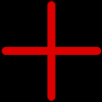
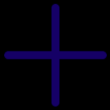
> Your pieces are now blue > Ex's shouldn't spawn in corners

Changed region(s): [[0.0, 0.0, 1.0, 1.0]]

diff --git a/public/shuffle-client.js b/public/shuffle-client.js
@@ -58,7 +58,7 @@ function setup() {                  //put all client responses in setup()
         addressString += digit;
     }
     self.address = int(addressString);
-    self.team = [100,0,0];
+    self.team = [0,0,100];
     
     //client = io.connect('74.71.101.15:8080');                     //Local ip on LAN over home router
     //client = io.connect('127.0.0.1:8080');                        //Localhost ip
@@ -138,7 +138,7 @@ function draw() {
             
             break;
         case 3:   //Play
-            background(0);     //This will be according to self.team
+            background(0);
             
             stay();
             board.enable();
@@ -659,13 +659,13 @@ function onGame(response) {
                 var team = [];
                 switch (t) {
                     case 0:
-                        team = [0,0,100];
+                        team = [100,0,0];
                         break;
                     case 1:
                         team = [0,100,0];
                         break;
                     case 2:
-                        team = [80,50,0];
+                        team = [100,100,0];
                         break;
                 }
                 t++;
@@ -679,7 +679,7 @@ function onGame(response) {
             }
         }
         
-        playerText.label = self.name + " (Red)\n" + others[0].name + " (Blue)\n";
+        playerText.label = self.name + " (Blue)\n" + others[0].name + " (Red)\n";
         if (others.length > 1) {
             playerText.label += others[1].name + " (Green)\n";
         }
@@ -770,17 +770,17 @@ function onLeave(response) {
                     others.splice(i,1);
                     i--;
                     
-                    playerText.label = self.name + " (Red)\n";
+                    playerText.label = self.name + " (Blue)\n";
                     for (var i=0; i<others.length; i++) {
                         playerText.label += others[i].name;
                         switch (others[i].team.join()) {
-                            case "0,0,100":
-                                playerText.label += " (Blue)";
+                            case "100,0,0":
+                                playerText.label += " (Red)";
                                 break;
                             case "0,100,0":
                                 playerText.label += " (Green)";
                                 break;
-                            case "80,50,0":
+                            case "100,100,0":
                                 playerText.label += " (Yellow)";
                                 break;
                         }

diff --git a/shuffle-server.js b/shuffle-server.js
@@ -444,7 +444,7 @@ function Game(siz) {
                 x = Math.floor(Math.random()*(this.size+2));
                 y = Math.floor(Math.random()*(this.size+2));
             }
-            this.players[p].place(x,y,true,true,true);
+            this.players[p].place(x,y,true,true,true);  // O
         
             x = Math.floor(Math.random()*(this.size+2));
             y = Math.floor(Math.random()*(this.size+2));
@@ -452,7 +452,7 @@ function Game(siz) {
                 x = Math.floor(Math.random()*(this.size+2));
                 y = Math.floor(Math.random()*(this.size+2));
             }
-            this.players[p].place(x,y,true,false,true);
+            this.players[p].place(x,y,true,false,true);  // #
         
             x = Math.floor(Math.random()*(this.size+2));
             y = Math.floor(Math.random()*(this.size+2));
@@ -460,7 +460,7 @@ function Game(siz) {
                 x = Math.floor(Math.random()*(this.size+2));
                 y = Math.floor(Math.random()*(this.size+2));
             }
-            this.players[p].place(x,y,true,true,false);
+            this.players[p].place(x,y,true,true,false);  // ∆
             
             x = Math.floor(Math.random()*(this.size+2));
             y = Math.floor(Math.random()*(this.size+2));
@@ -468,7 +468,7 @@ function Game(siz) {
                 x = Math.floor(Math.random()*(this.size+2));
                 y = Math.floor(Math.random()*(this.size+2));
             }
-            this.players[p].place(x,y,false,true,true);
+            this.players[p].place(x,y,false,true,true);  // *
             
             x = Math.floor(Math.random()*(this.size+2));
             y = Math.floor(Math.random()*(this.size+2));
@@ -476,15 +476,15 @@ function Game(siz) {
                 x = Math.floor(Math.random()*(this.size+2));
                 y = Math.floor(Math.random()*(this.size+2));
             }
-            this.players[p].place(x,y,false,false,true);
+            this.players[p].place(x,y,false,false,true);  // +
             
             x = Math.floor(Math.random()*(this.size+2));
             y = Math.floor(Math.random()*(this.size+2));
-            while (this.overlap(x,y)) {
+            while (this.overlap(x,y) || (x == 0 && (y == 0 || y == this.size+1)) || (x == this.size+1 && (y == 0 || y == this.size+1))) {
                 x = Math.floor(Math.random()*(this.size+2));
                 y = Math.floor(Math.random()*(this.size+2));
             }
-            this.players[p].place(x,y,false,true,false);
+            this.players[p].place(x,y,false,true,false);  // x
         }
     }
     

diff --git a/public/index.html b/public/index.html
@@ -108,7 +108,7 @@
         Next, either choose an existing game (diamond buttons on the right) or a preferred game size (the numbers at the bottom).
     </div>
     <div id="text">
-        When the game starts, the board is shown. Your pieces are red.
+        When the game starts, the board is shown. Your pieces are BLUE.
     </div>
     <div id="text">
         Pick where you want them to move by clicking them. When you've finished, press the play button at the upper right corner.
